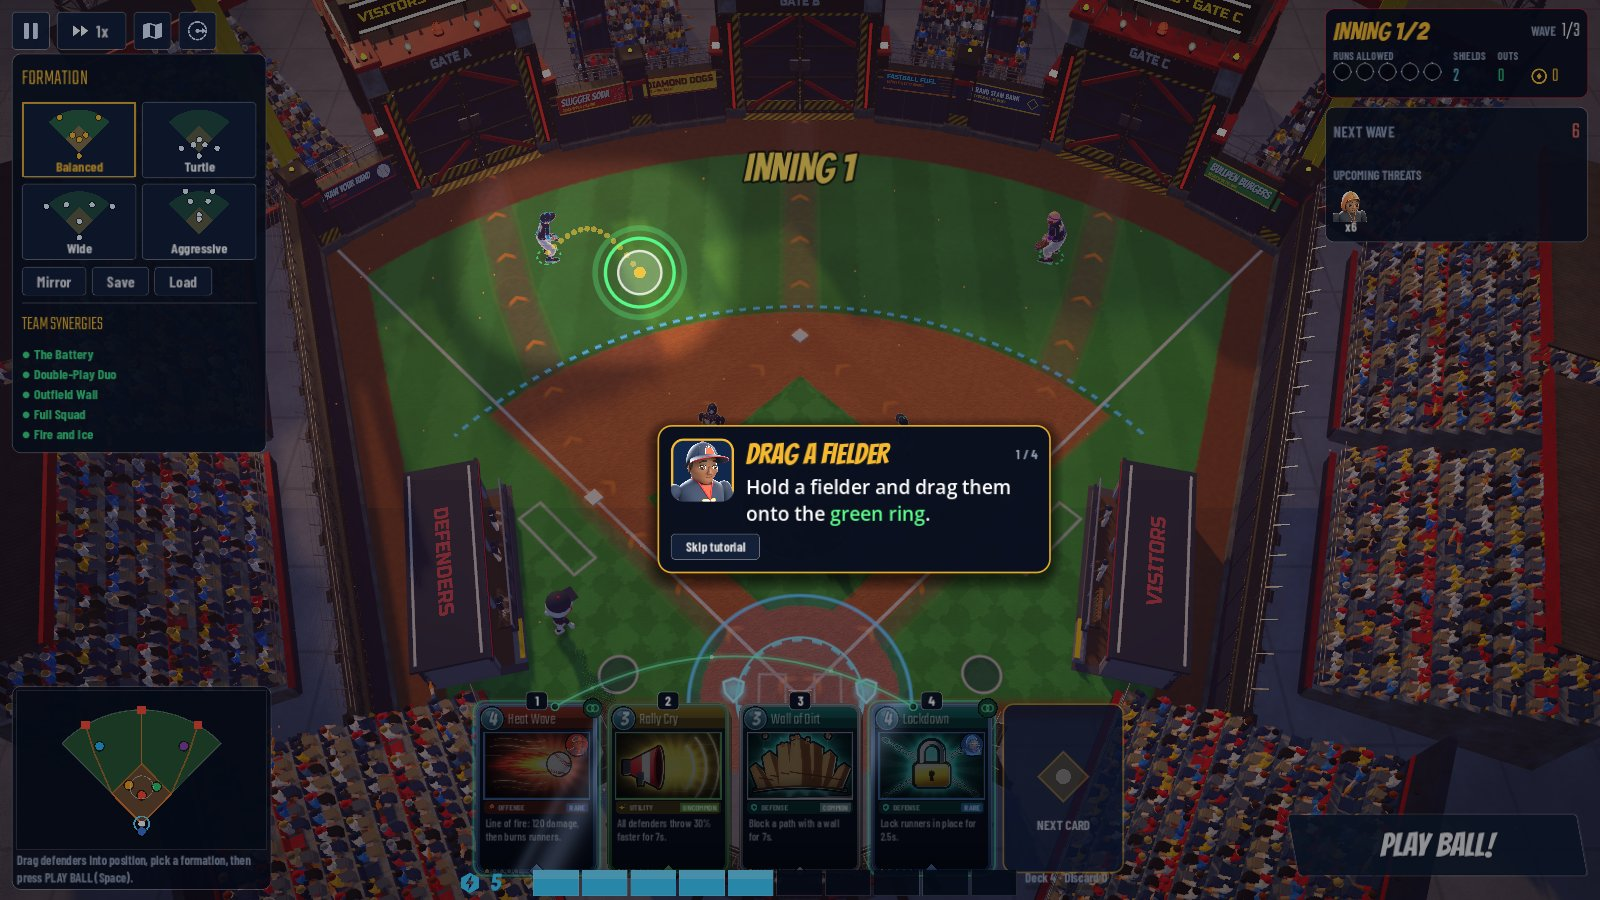
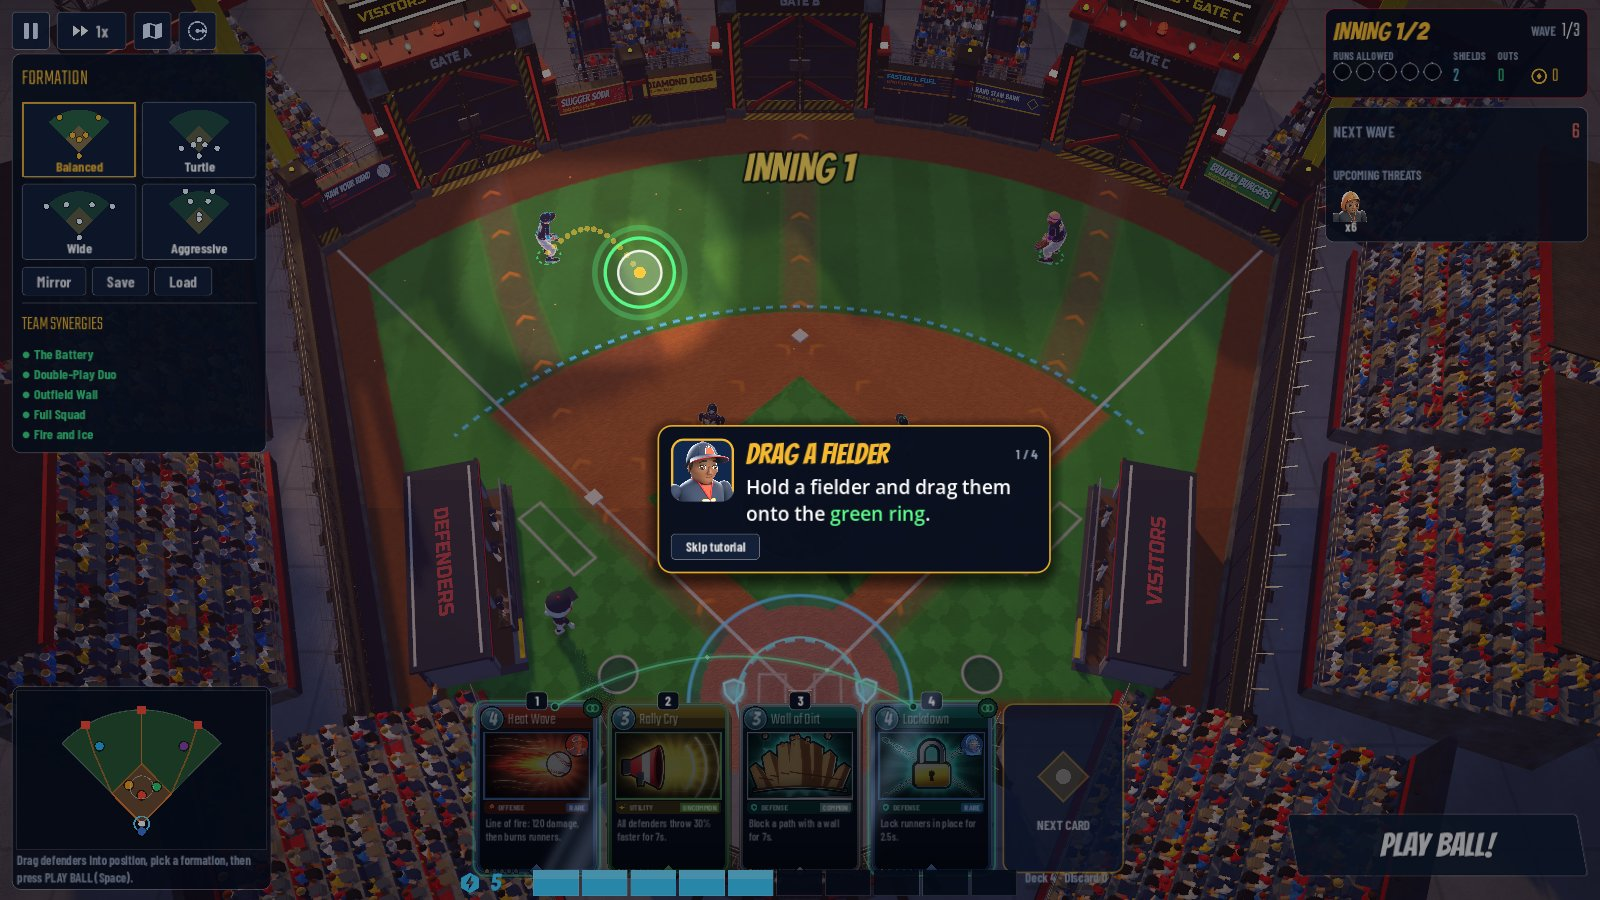
Update 13: Rookie Camp onboarding (story intro, learn-by-doing first game, guided rewards, progressive unlocks, Rookie Path, Rookie Week) [build]
Claude-Session: https://claude.ai/code/session_0152sgq3BPmEUFHQx2kFxsiy

diff --git a/docs/DEVELOPMENT_REPORT.md b/docs/DEVELOPMENT_REPORT.md
@@ -1229,7 +1229,7 @@ rewarded in the first ten minutes, always knows the next step, and has reasons t
     a 0.85× wave budget, an Iron Slugger at 0.3× health closing inning 2 as the boss tease).
   * Every step is an action with one line of text, a spotlight and a pointer; nothing pauses the game:
     drag a fielder to the ring, PLAY BALL, the first throw, play a card on a runner (in slow motion), then a
-    staged pack of three runners and Heat Wave in bullet time for a guaranteed **TRIPLE PLAY** with a
+    staged pack of three runners and Heat Wave in bullet time for a guaranteed **TRIPLE PLAY** (or better) with a
     "WHAT A PLAY!" celebration. Short tips follow for the break, the dugout and the boss.
   * Generic hooks: a config `innings` override (`run_state.gd`), a config `tuning` override
     (`wave_generator.gd`), and the boss intro plays once the tutorial's core steps are done (`battle.gd`).
@@ -1287,3 +1287,28 @@ Free picks restart their rarity's pity counter, which keeps the collection time 
 * The missions panel calls the chain "ROOKIE PATH" and shows its 10 steps as numbered nodes; the "what's
   next" suggestions skip features that are still locked.
 * The FTUE UI test waits on game state with longer caps (slow software rendering).
+
+### First-session timing (measured)
+* Story intro, played through: 13.1 s. Launch to first throw with the intro skipped: about 16 s (10.7 s of
+  game frames).
+* First game by autopilot: about 2 minutes of game time, 0 runs allowed, won every time; with breaks, the
+  dugout and the tutorial moments, a real first game is about 3.2–3.6 minutes.
+* The funnel order (launch → intro → first game → first throw → first card → first win → first pack →
+  deck edited → game 2) is checked by the `ftue` UI section.
+
+Screenshots (`docs/screenshots/u13/`):
+![Story intro](screenshots/u13/intro_1_wreckers.jpg)
+![Learn by doing: drag a fielder](screenshots/u13/tutorial_1_drag.jpg)
+![The staged triple play](screenshots/u13/tutorial_6_triple_play.jpg)
+![First win](screenshots/u13/results_first_win.jpg)
+![Guided first pack](screenshots/u13/pack_3_new_card.jpg)
+![New player's hub](screenshots/u13/hub_new_player.jpg)
+![NEW FEATURE UNLOCKED](screenshots/u13/unlock_celebration.jpg)
+![Epic pick](screenshots/u13/epic_picker.jpg)
+
+### Verification
+* Script check: 105 scripts, 0 failed.
+* System suite: 3,412 checks, 0 failed (including the update 13 first-session and Rookie Camp sections).
+* Full UI flow test: 622 checks, 0 failed, including the fresh-player `ftue` (59 checks) and `rookie`
+  (48 checks) sections.
+* Smoke test: passes.
